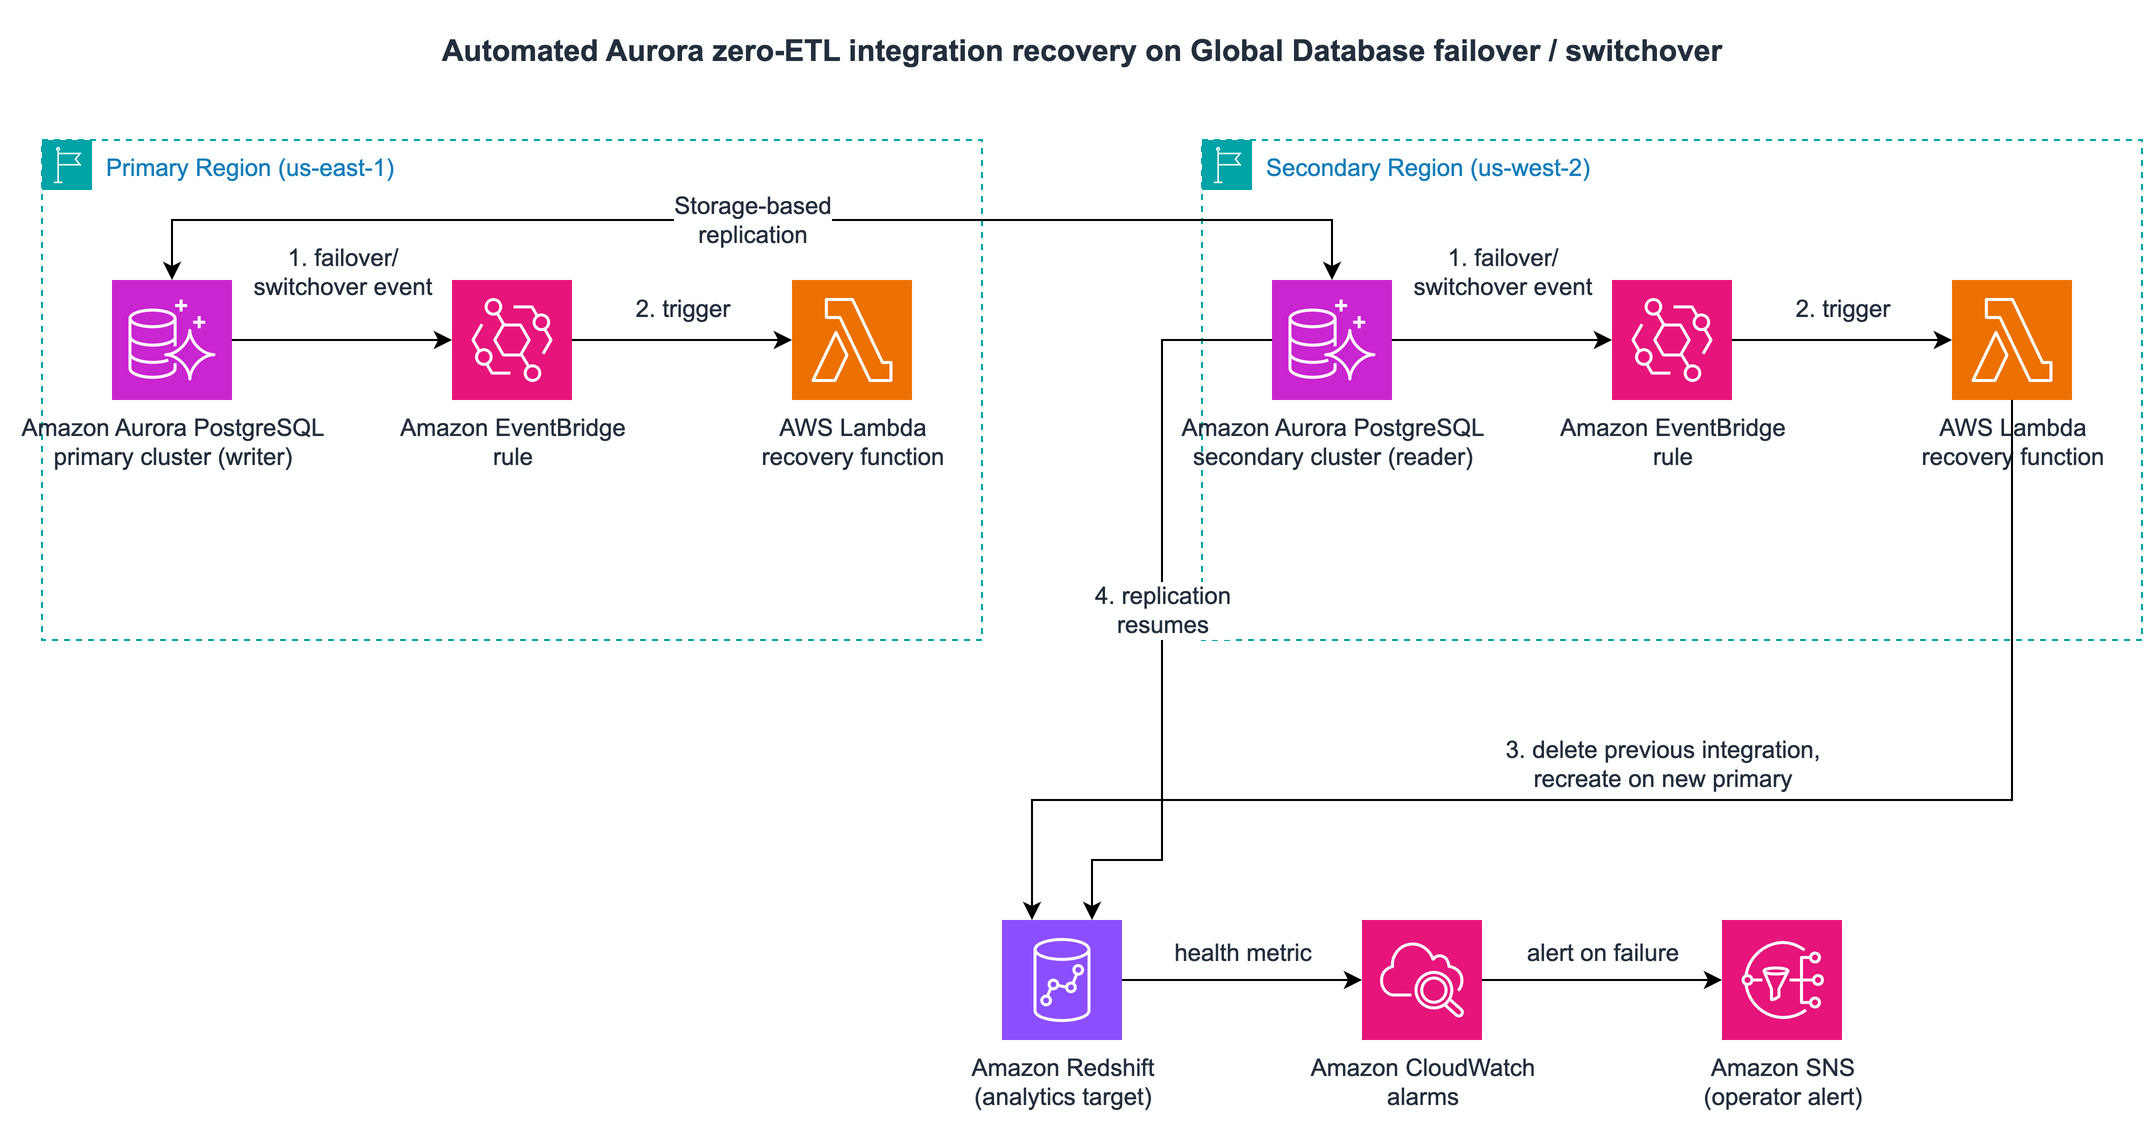
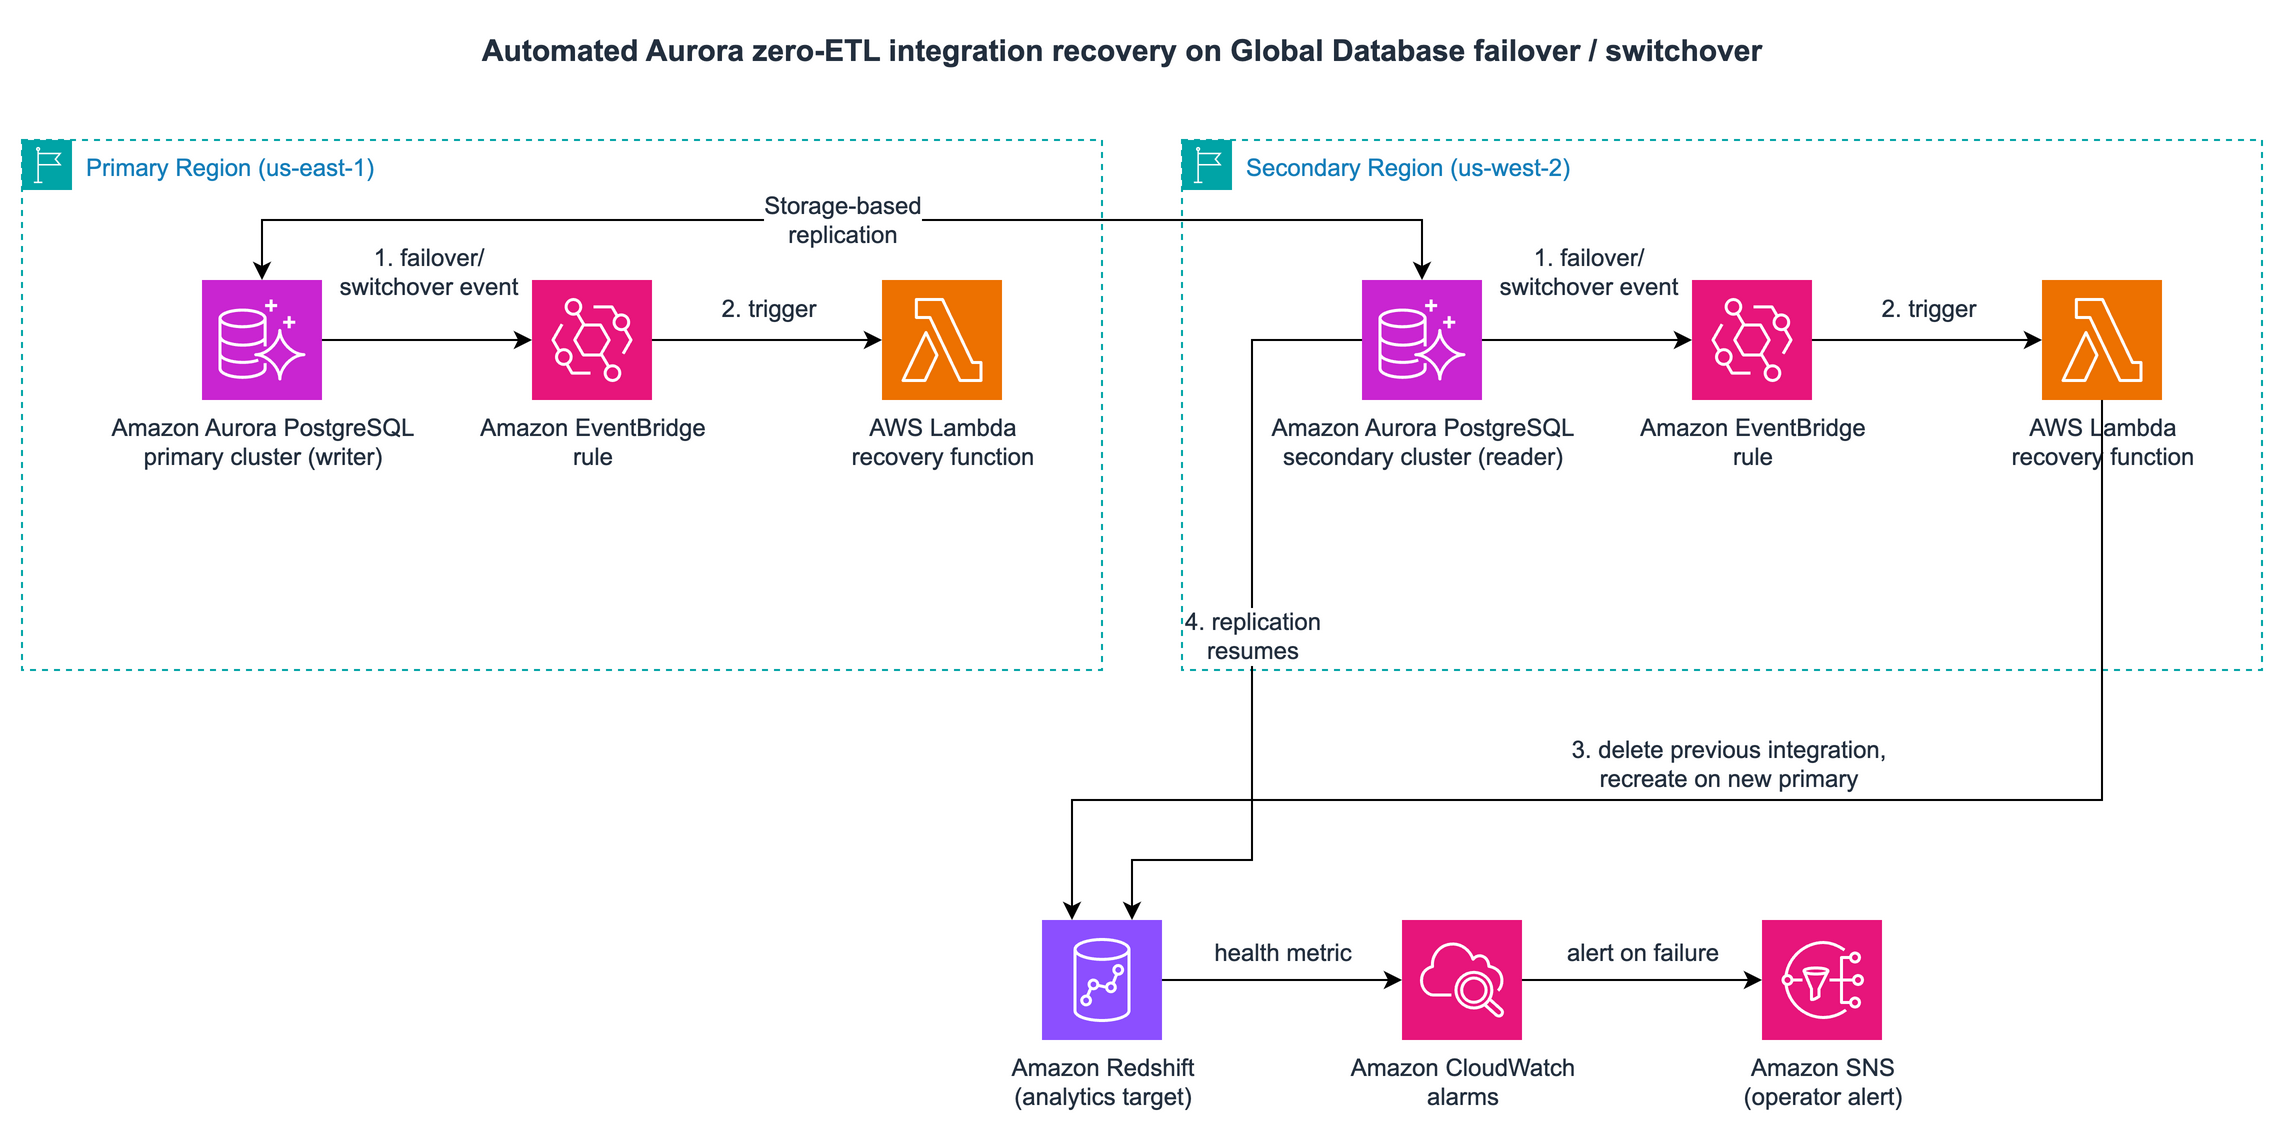
docs: Align Region wording with resilience content guidance, widen diagram groups
Replace Region failure/outage phrasing with service impairment wording
per the multi-Region content guidance (Regions do not fail; describe
events that impair API access instead). Applied in README, the Lambda
docstring, and the synced CloudFormation template. Widen the Region
group boxes in the architecture diagram so icon labels no longer
overlap the group borders.

sim: https://issues.amazon.com/issues/DBBLOG-5446

diff --git a/lambda/zero_etl_recovery.py b/lambda/zero_etl_recovery.py
@@ -22,9 +22,9 @@ Design notes
    lives in the former primary's Region, so a Regional DescribeIntegrations
    call in the new primary's Region cannot see it. The function walks every
    member Region of the global cluster with a Regional client to find and delete
-   integrations it owns. Deletion is best effort: during a real Regional outage
-   the former primary's Region may be unreachable, and the new integration must
-   still be created.
+   integrations it owns. Deletion is best effort: during a service impairment
+   API calls to the former primary's Region may not succeed, and the new
+   integration must still be created.
 
 4. Ownership is tag-scoped. The function only ever deletes integrations that
    carry both of its own tags, so integrations managed elsewhere are untouched.

diff --git a/README.md b/README.md
@@ -164,11 +164,11 @@ Switch back to validate the reverse direction.
   source before the target is fully queryable again. The automation restores the
   pipeline promptly; data continuity in Amazon Redshift follows after the
   reseed. Prefer planned switchovers so you can schedule that window.
-- **Cleanup is best effort during a Regional outage.** If the former primary's
-  Region is unreachable, the previous integration cannot be deleted. The function
-  still creates the new integration and reports the Regions it could not reach
-  in its SNS notification and return value. Reconcile once those Regions
-  recover.
+- **Cleanup is best effort during a service impairment.** If API calls to the
+  former primary's Region do not succeed, the previous integration cannot be
+  deleted. The function still creates the new integration and reports the
+  Regions it could not reach in its SNS notification and return value.
+  Reconcile once access is restored.
 - **Tag-scoped ownership.** The function only deletes integrations carrying both
   its `ManagedBy` and `GlobalCluster` tags. Integrations managed elsewhere are
   never touched. Conversely, an integration created by hand will not be cleaned
